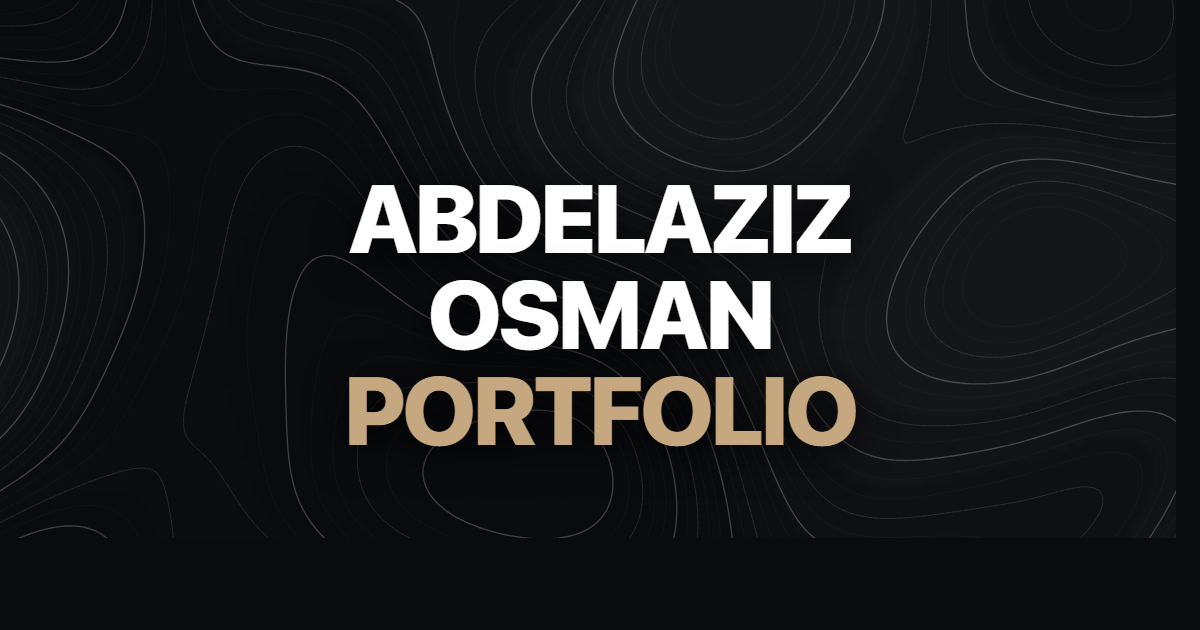
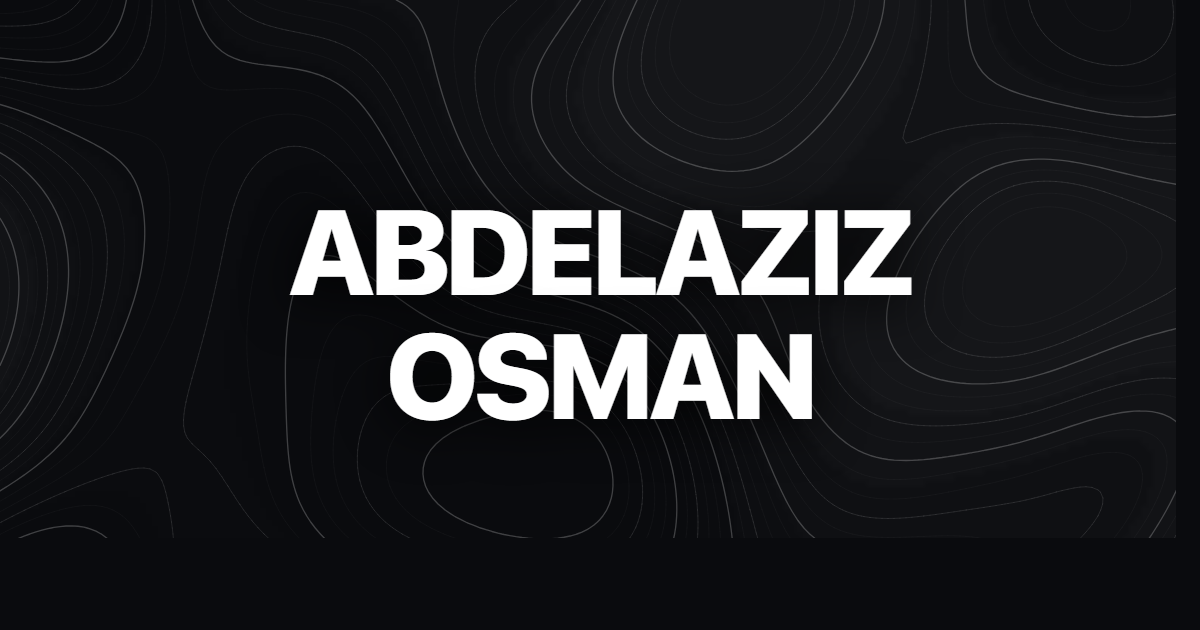
feat(branding): set title and social card to 'Abdelaziz Osman' with 2-line Apple typography

Changed region(s): [[0.2467, 0.2714, 0.7708, 0.7238]]

diff --git a/index.html b/index.html
@@ -3,27 +3,27 @@
 <head>
   <meta charset="utf-8">
   <meta name="viewport" content="width=device-width, initial-scale=1, viewport-fit=cover">
-  <title>Abdelaziz Osman Portfolio</title>
+  <title>Abdelaziz Osman</title>
   <meta name="robots" content="index, follow">
-  <meta name="description" content="Abdelaziz Osman Portfolio — Lead Architect &amp; PMC Architect with 12+ years of experience across Saudi Arabia and Egypt. PMP®, LEED® Green Associate™, Saudi Council of Engineers Accredited.">
+  <meta name="description" content="Abdelaziz Osman — Lead Architect &amp; PMC Architect with 12+ years of experience across Saudi Arabia and Egypt. PMP®, LEED® Green Associate™, Saudi Council of Engineers Accredited.">
   <meta name="author" content="Abdelaziz Osman">
   <link rel="icon" type="image/jpeg" href="assets/web/profile.jpg">
 
   <!-- Open Graph / WhatsApp / LinkedIn -->
   <meta property="og:type" content="website">
   <meta property="og:url" content="https://abdelazizothmaneg-alt.github.io/portfolio/">
-  <meta property="og:title" content="Abdelaziz Osman Portfolio">
+  <meta property="og:title" content="Abdelaziz Osman">
   <meta property="og:description" content="Lead Architect &amp; PMC Architect (PMP® • LEED® GA). 12+ years delivering landmark commercial hubs, master communities, and strategic projects in Saudi Arabia.">
-  <meta property="og:image" content="https://abdelazizothmaneg-alt.github.io/portfolio/assets/web/og-image.png?v=2">
+  <meta property="og:image" content="https://abdelazizothmaneg-alt.github.io/portfolio/assets/web/og-image.png?v=3">
   <meta property="og:image:type" content="image/png">
   <meta property="og:image:width" content="1200">
   <meta property="og:image:height" content="630">
 
   <!-- Twitter / X -->
   <meta name="twitter:card" content="summary_large_image">
-  <meta name="twitter:title" content="Abdelaziz Osman Portfolio">
+  <meta name="twitter:title" content="Abdelaziz Osman">
   <meta name="twitter:description" content="Lead Architect &amp; PMC Architect (PMP® • LEED® GA). 12+ years delivering landmark developments in Saudi Arabia.">
-  <meta name="twitter:image" content="https://abdelazizothmaneg-alt.github.io/portfolio/assets/web/og-image.png?v=2">
+  <meta name="twitter:image" content="https://abdelazizothmaneg-alt.github.io/portfolio/assets/web/og-image.png?v=3">
   <style>
 
         /* ============================================================
@@ -7711,8 +7711,8 @@ html[dir="rtl"] .lang-toggle {
       document.documentElement.setAttribute('dir', lang === 'ar' ? 'rtl' : 'ltr');
       document.documentElement.setAttribute('lang', lang);
       document.title = (lang === 'ar')
-        ? 'Abdelaziz Osman Portfolio | بورتفوليو م. عبد العزيز عثمان'
-        : 'Abdelaziz Osman Portfolio';
+        ? 'م. عبد العزيز عثمان'
+        : 'Abdelaziz Osman';
       
       const heroNameEl = document.querySelector('.hero-name');
       const heroRoleEl = document.querySelector('.hero-role-title');
